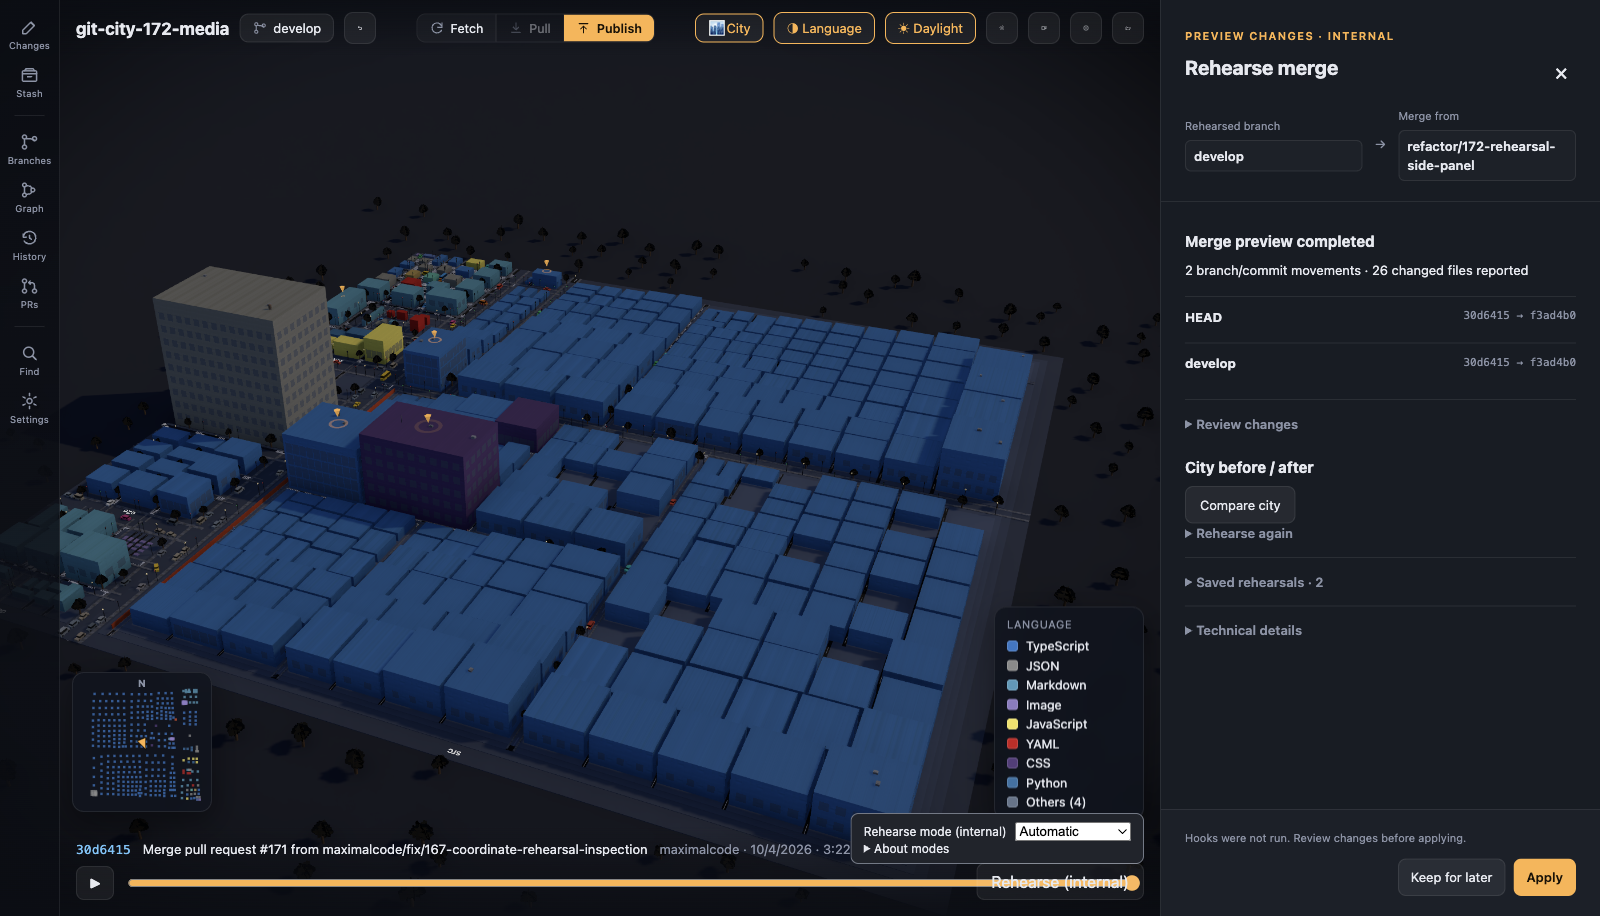
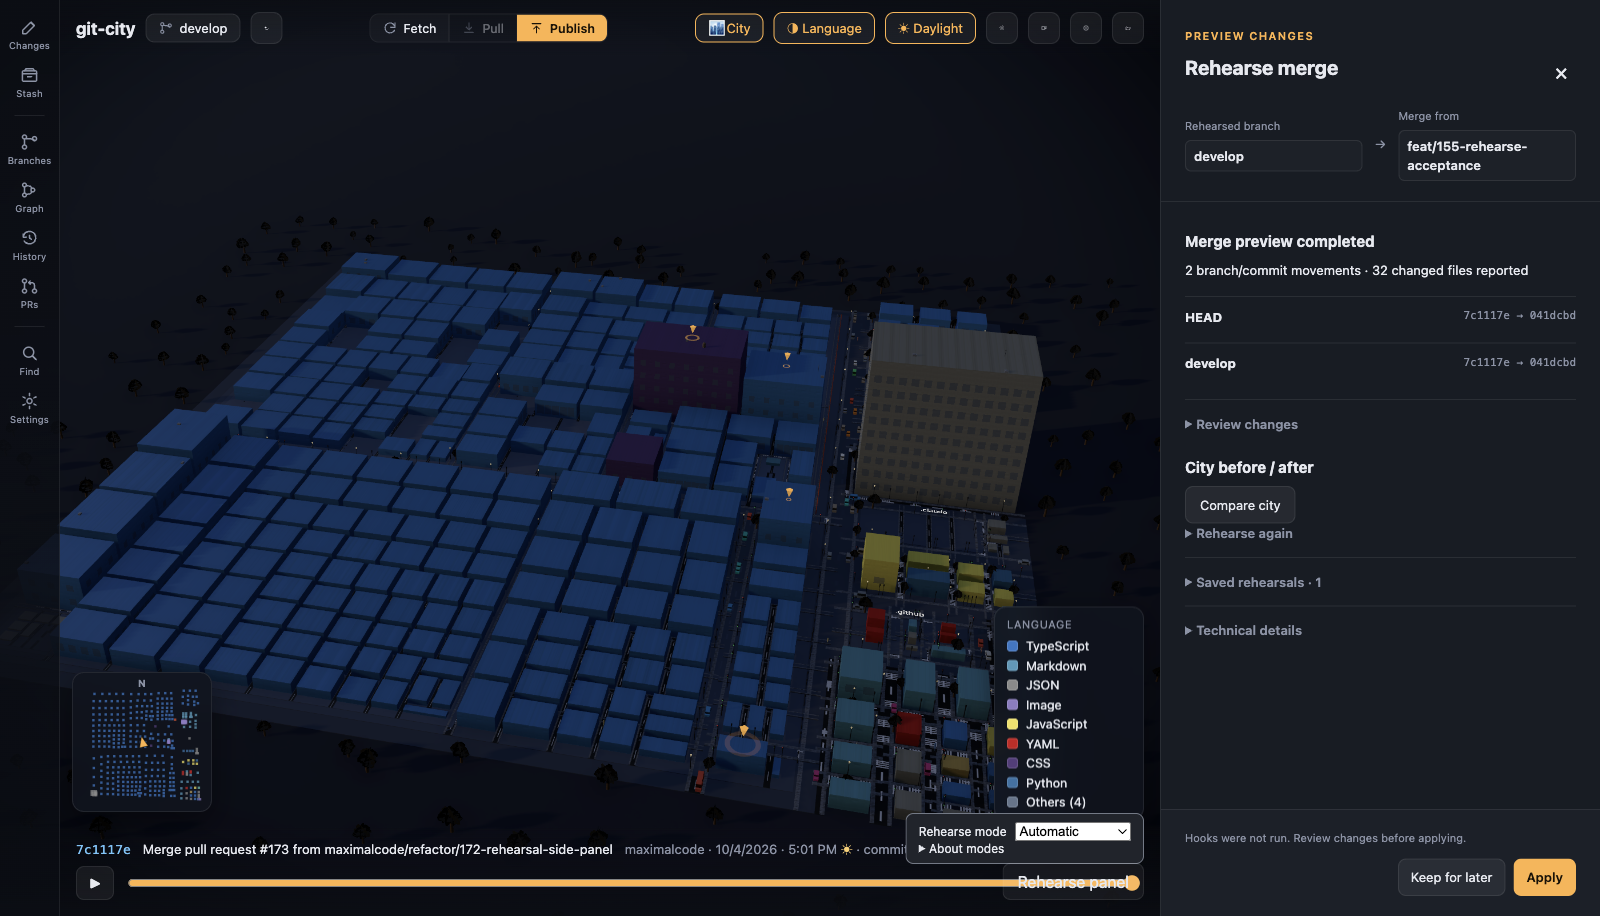
docs: show the public Rehearse workflow and provenance #155

diff --git a/README.md b/README.md
@@ -89,6 +89,23 @@ across the city, so you see its blast radius at a glance.
 
 **[The complete feature list](docs/features.md)** has all of it.
 
+## Rehearse before changing your checkout
+
+Merge, Rebase (including interactive plans), and single Cherry-pick can run in a
+retained sandbox. Review changes beside the city, resolve conflicts there, compare
+Before/After, and explicitly confirm **Apply** to adopt the checked result.
+**Automatic / Ask / Off** is shared across linked worktrees. New repositories use
+Automatic; existing recent repositories receive a one-time choice.
+
+![Rehearse side panel beside the real repository city](docs/media/app-rehearsal.png)
+
+Keep results across restarts, stop previews, confirm discard, or use **Undo Apply**
+when the original worktree still permits it. Interrupted Apply/Undo blocks writes
+until checked recovery. Hooks are not run in rehearsal or Apply; signature presence
+is shown separately from verification. Git City bundles the compatible tool for
+Windows/Linux x64 and both macOS architectures. Read the [Rehearse guide](docs/rehearse.md)
+for local-work handling, limits, keyboard controls and recovery.
+
 ## Install
 
 Grab the latest build from
@@ -194,23 +211,6 @@ Development happens through GitHub issues. See
 [CONTRIBUTING.md](CONTRIBUTING.md) for setup and the branch and PR flow. Bug
 reports and feature requests are welcome, and there are issue templates for both.
 Taking part means agreeing to the [Code of Conduct](CODE_OF_CONDUCT.md).
-
-## Rehearse before changing your checkout
-
-Merge, Rebase (including interactive plans), and single Cherry-pick can run in a
-retained sandbox. Review changes beside the city, resolve conflicts there, compare
-Before/After, and explicitly confirm **Apply** to adopt the checked result.
-**Automatic / Ask / Off** is shared across linked worktrees. New repositories use
-Automatic; existing recent repositories receive a one-time choice.
-
-![Rehearse side panel beside the real repository city](docs/media/app-rehearsal.png)
-
-Keep results across restarts, stop previews, confirm discard, or use **Undo Apply**
-when the original worktree still permits it. Interrupted Apply/Undo blocks writes
-until checked recovery. Hooks are not run in rehearsal or Apply; signature presence
-is shown separately from verification. Git City bundles the compatible tool for
-Windows/Linux x64 and both macOS architectures. Read the [Rehearse guide](docs/rehearse.md)
-for local-work handling, limits, keyboard controls and recovery.
 
 ## License
 

diff --git a/docs/rehearsal-acceptance.md b/docs/rehearsal-acceptance.md
@@ -74,7 +74,8 @@ was fixed in upstream PR #114. The toolchain now pins artifact revision
 `0ecca205f38fb1bcd88ef2e6a62f6943e2ddc65d` from
 [run 37208097702](https://github.com/maximalcode/git-rehearse/actions/runs/37208097702).
 All four archive checksums were independently verified against their checksum
-files. Each upstream target passed concurrent worktree previews, Apply and
+files. The artifact, reviewed head and merged upstream commit all resolve to tree
+`a544b3784e89f40b733cd7d659c8b07ff74427b2`. Each upstream target passed concurrent worktree previews, Apply and
 retained-metadata migration. Git City's previously failing real Electron worktree
 regression now passes, including stale Apply refusal and retention.
 
@@ -88,7 +89,10 @@ Full local and packaged activation validation is in progress. This document does
 not yet attest completion; no public activation PR has been opened. Final evidence
 must include the native packaged entry point on every shipped target and the full
 Electron suite. The [user guide](rehearse.md), feature inventory, troubleshooting,
-keyboard reference and real repository screenshot accompany activation.
+keyboard reference and real repository screenshot accompany activation. The screenshot
+uses the production renderer and a clean temporary clone of this repository,
+rehearsing the activation branch onto `develop` without Apply; this avoids changing
+the working checkout's unrelated worktree registrations.
 
 Signature presence is not cryptographic verification or signer trust. Sandbox
 execution is not operating-system isolation. Tests do not establish control over

diff --git a/docs/rehearse.md b/docs/rehearse.md
@@ -152,7 +152,7 @@ incompatible retained data must be preserved, not deleted to make an update work
 
 ## Keyboard and focus
 
-Tab moves through the panel's controls, including the target form, result
+Tab and Shift+Tab move through the panel's controls, including the target form, result
 sections, saved history, conflict controls, and footer actions. Enter activates
 the focused control. Escape closes the panel only when focus is inside it; it
 does not stop a running preview. Focus returns to the control that opened the
@@ -160,8 +160,7 @@ panel. Apply, Discard and first-time mode selection use modal confirmation or ch
 dialogs, where Escape cancels that dialog instead. Undo has an inline confirmation;
 Escape cancels it and returns focus to Undo Apply.
 
-Tab and Shift+Tab reach controls; Enter activates buttons and submits the preview.
-Space toggles checkboxes; arrow keys change the mode selector. Rehearsal completion
+Enter submits the preview form. Space toggles checkboxes; arrow keys change the mode selector. Rehearsal completion
 focuses the textual result. File selection focuses the editor heading; refresh and
 Continue return focus to the report. Compare city initially focuses Before.
 
